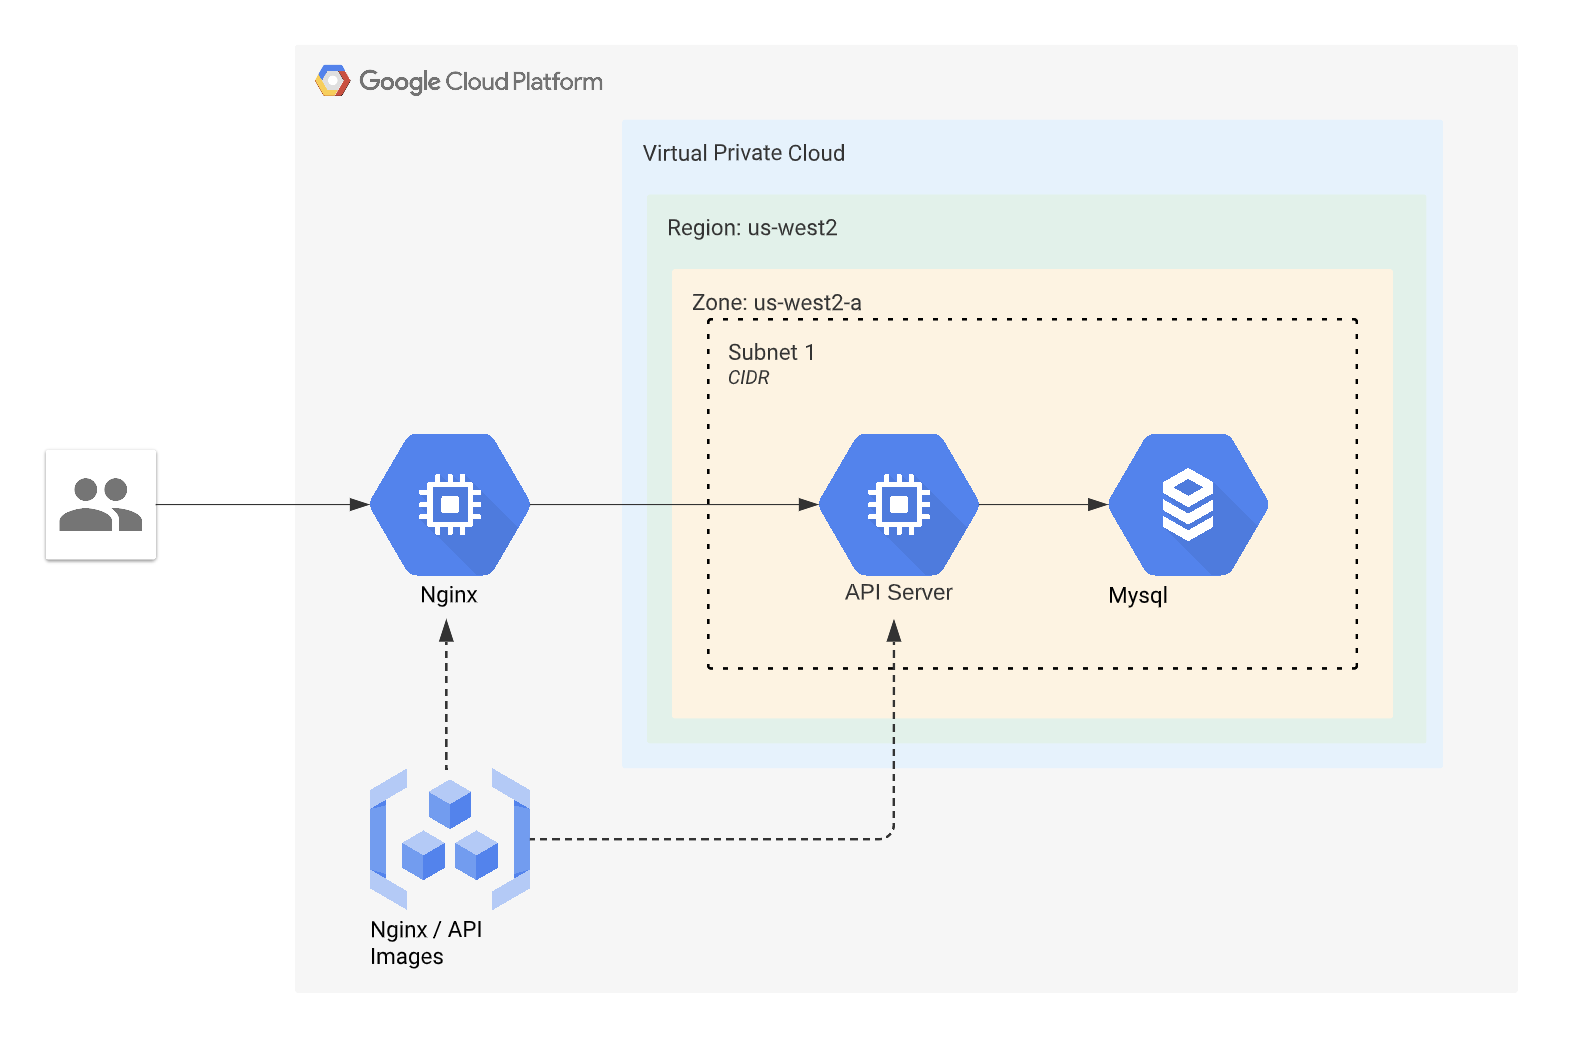
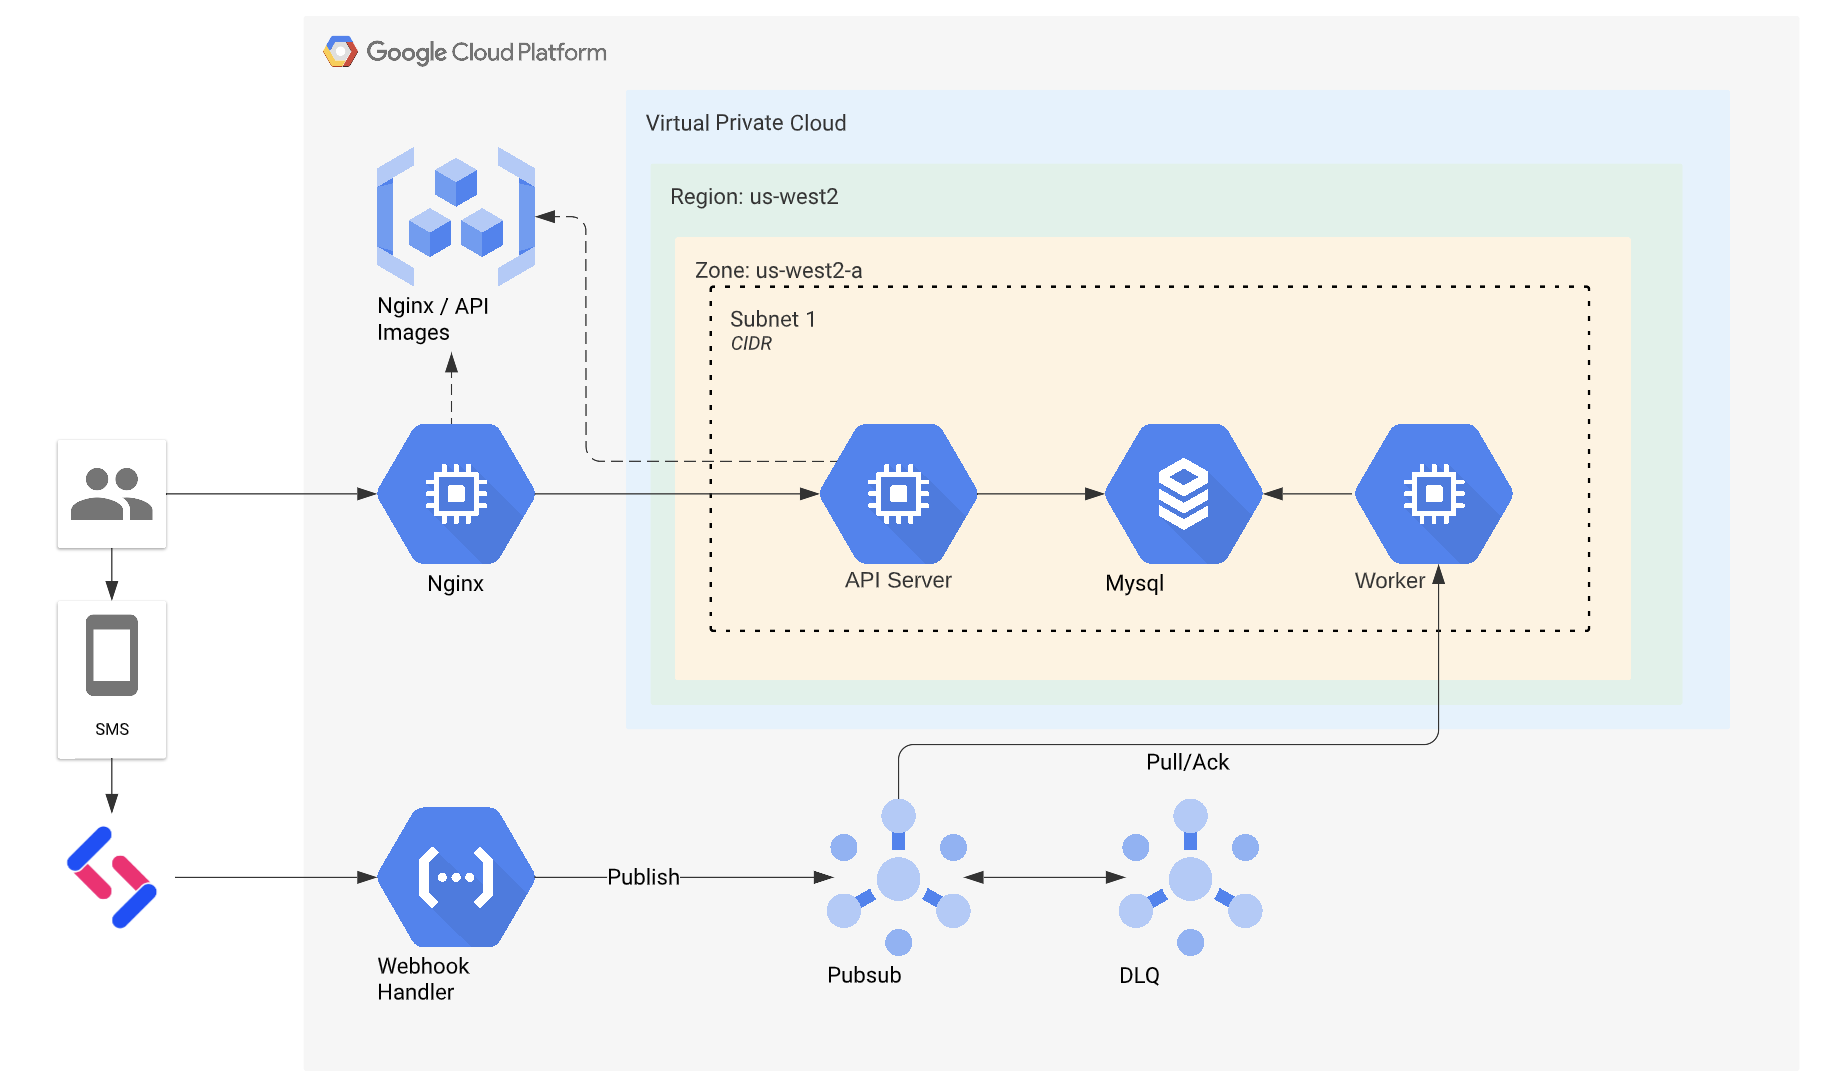
Update architecture and diagram

diff --git a/backend/README.md b/backend/README.md
@@ -12,4 +12,6 @@ docker buildx build \
 
 ## To build locally
 
-```docker build --build-arg DB_USER=${DB_USER} --build-arg DB_PASS=${DB_PASS} -t nbfactsserver  . && docker run -p 80:80 -it nbfactsserver ```
+```
+docker build --build-arg COMMAND=server --build-arg DB_USER=${DB_USER} --build-arg DB_PASS=${DB_PASS} -t nbfactsserver . && docker run -p 80:80 -it nbfactsserver
+ ```
